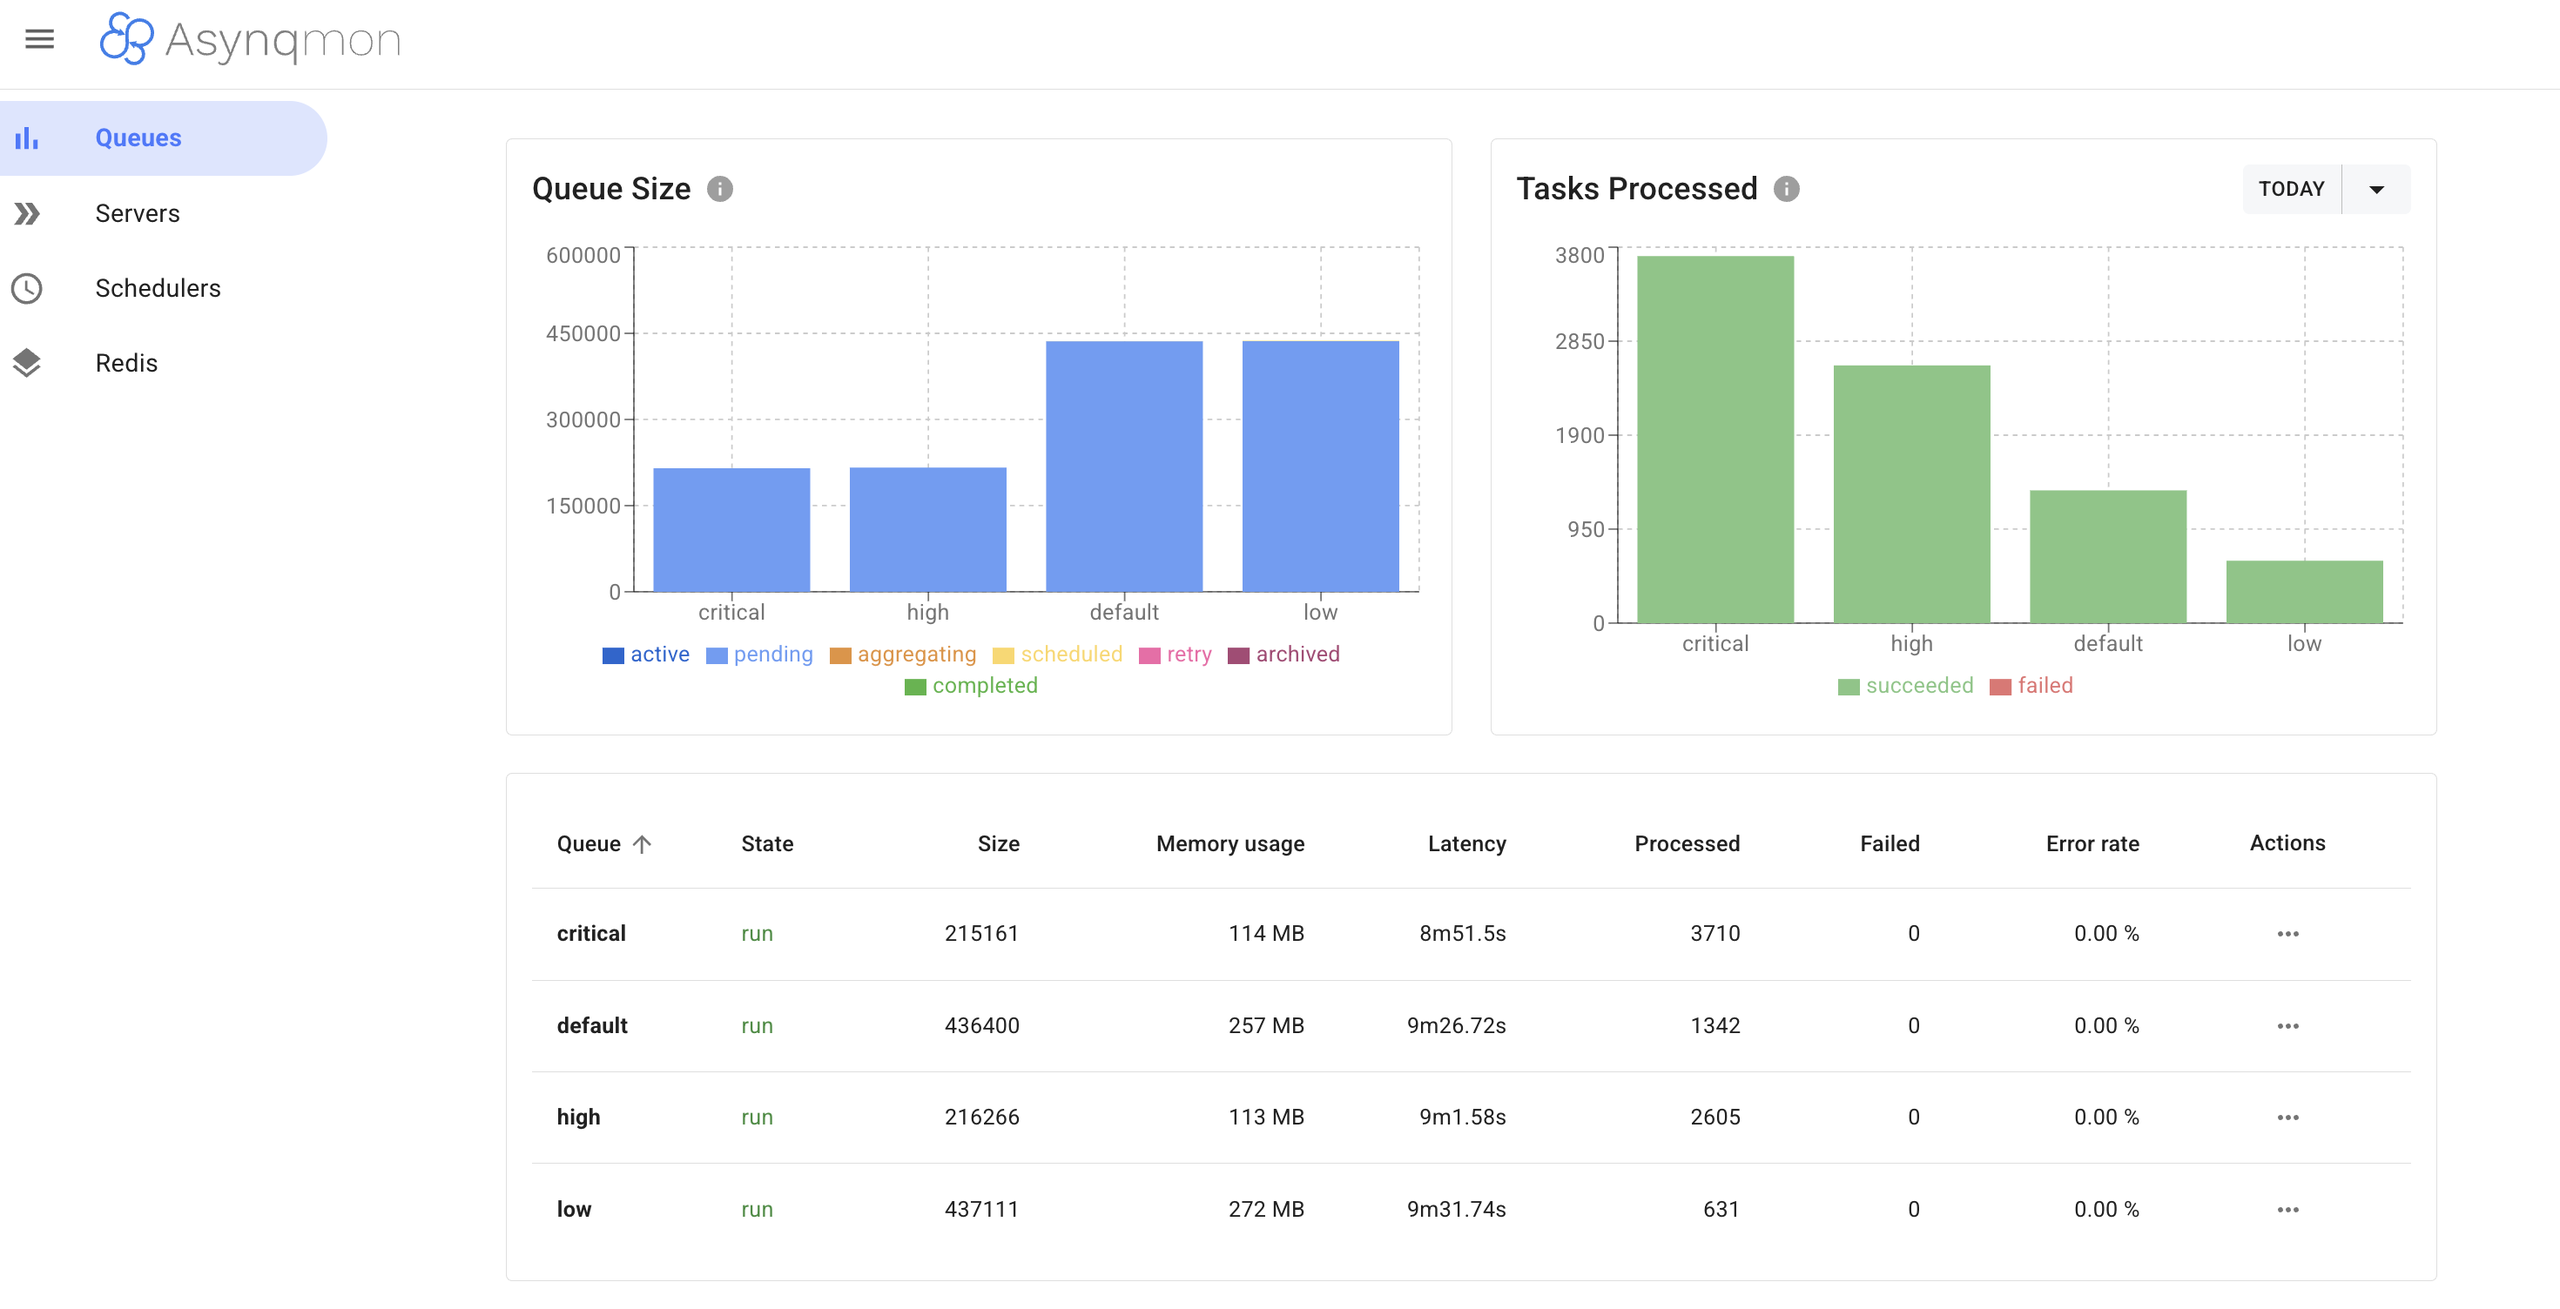
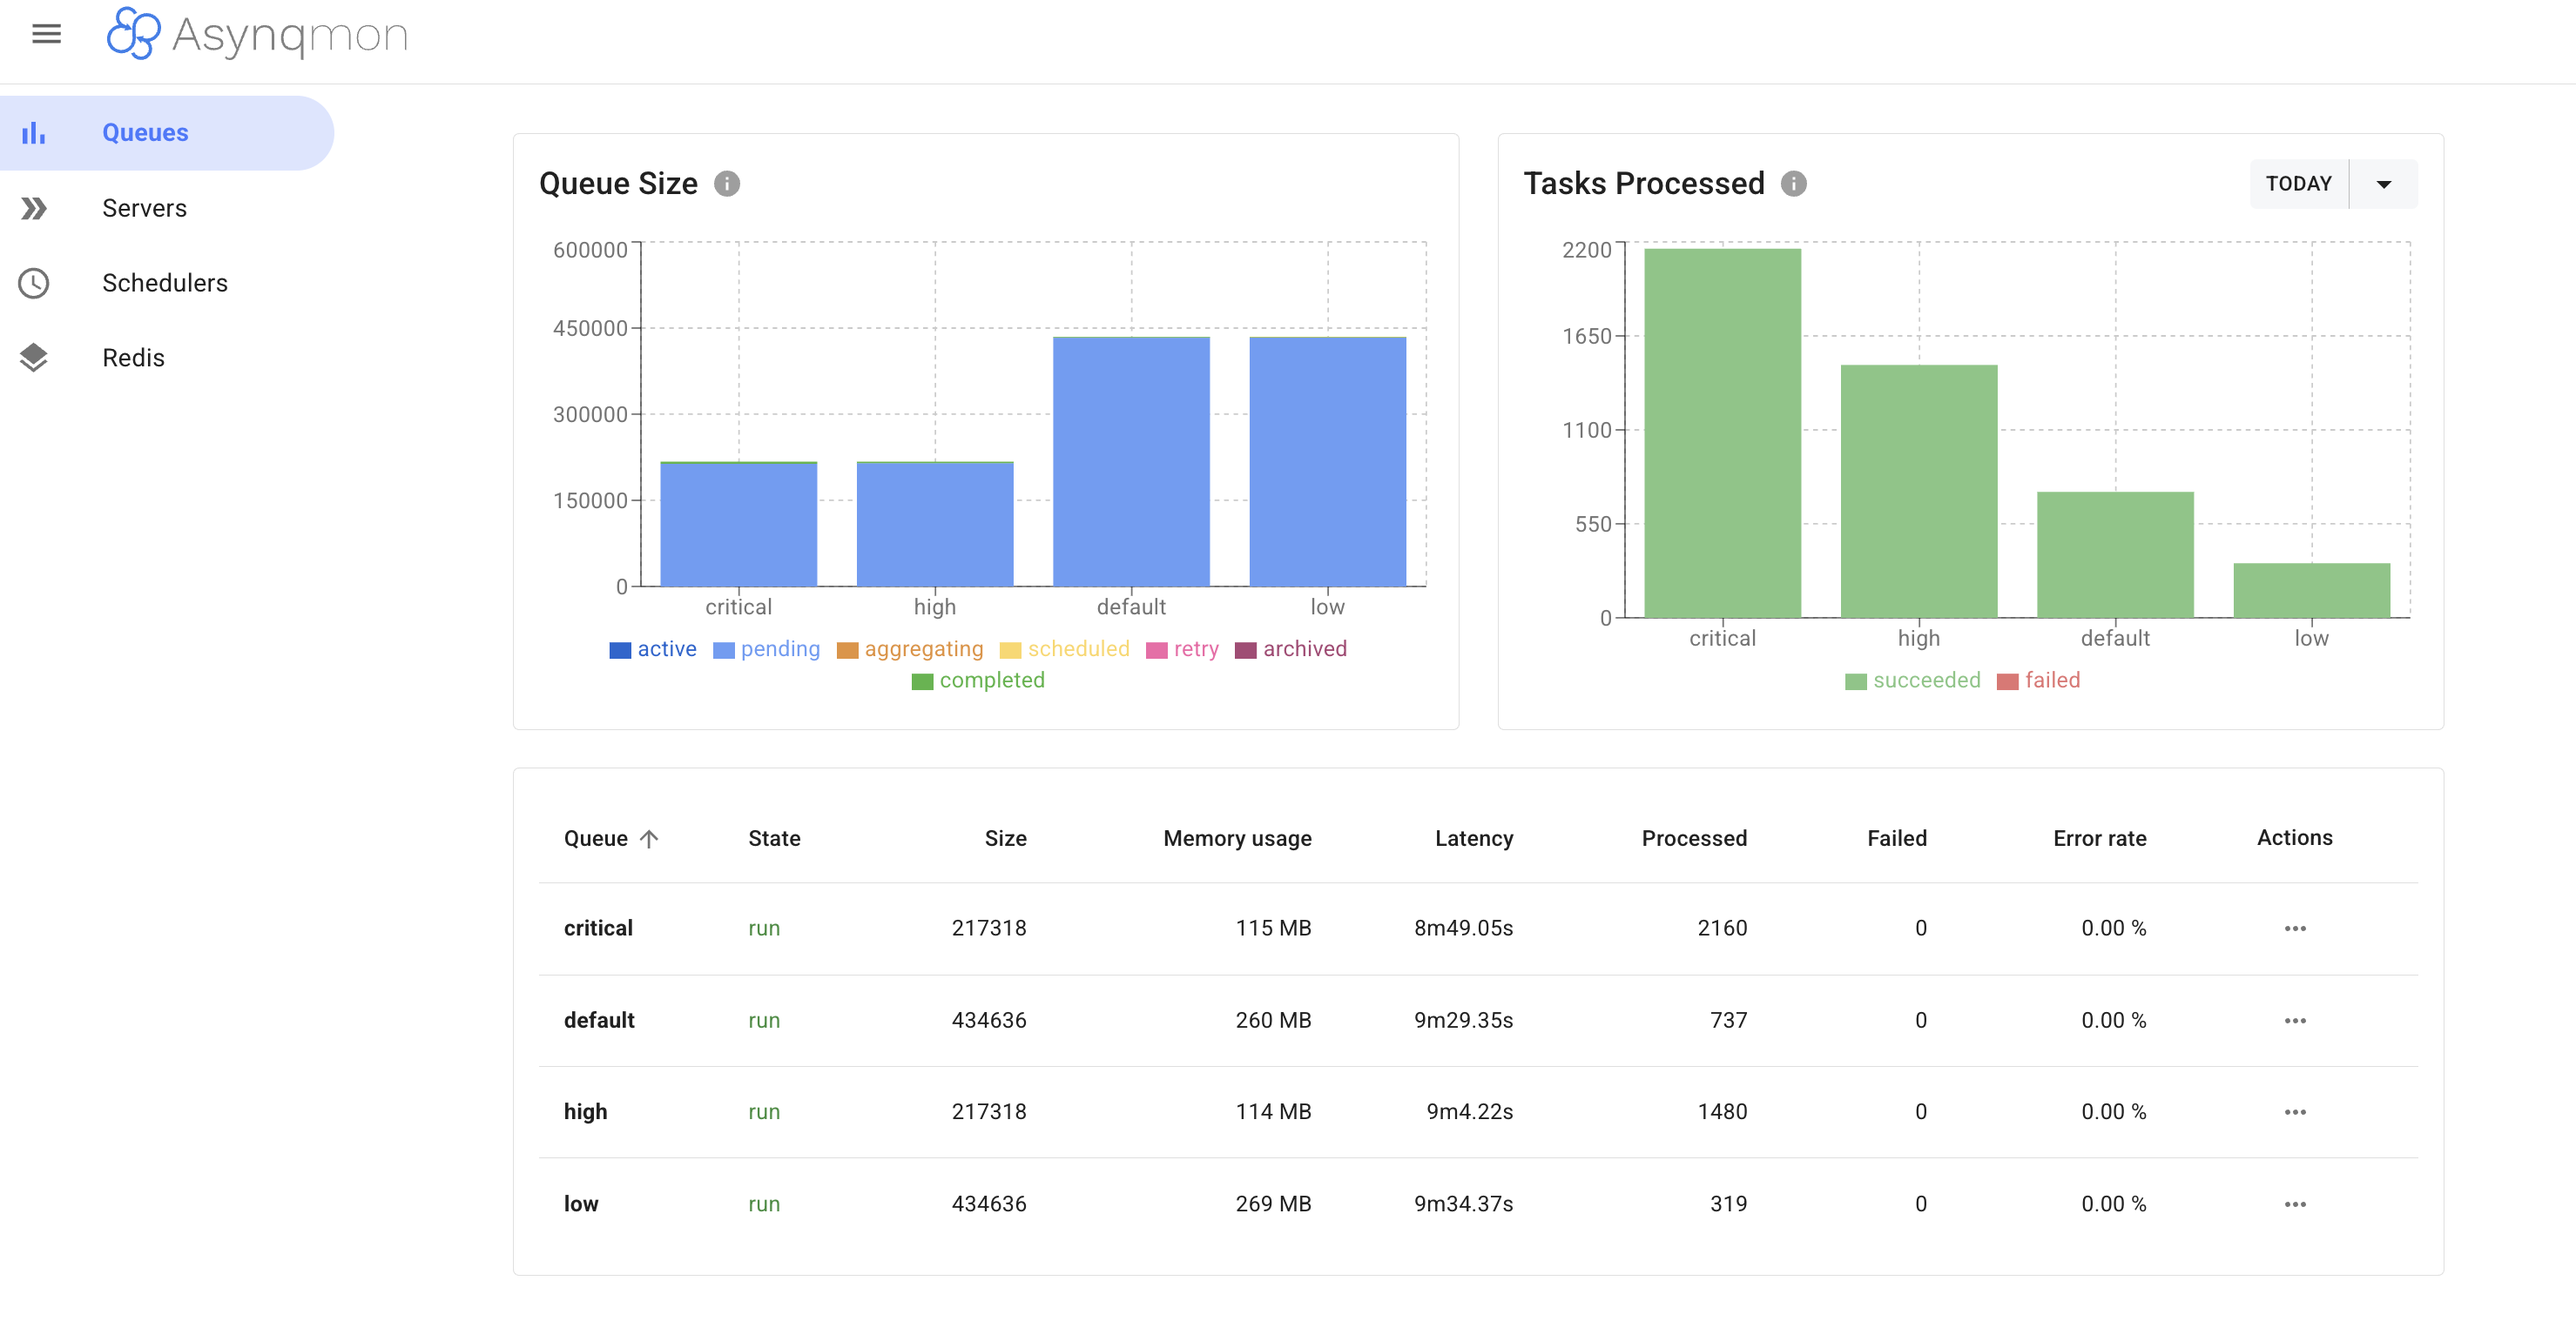
docs: refresh Stress Test results after DB-updating tasks
- Update Stress Test K6 metrics (217,766 req, 362.76 req/s, 15.70ms avg, 448 failures)
- Update Asynqmon queue stats (sizes/latency/processed) for latest run
- Update summary table and reliability statements to reflect new stress run
- Add troubleshooting guidance for API failures under DB-write workload

diff --git a/docs/RESULTS.md b/docs/RESULTS.md
@@ -102,26 +102,36 @@ Hardware:
 ![Stress Test Results](screenshots/stress-test-k6.png)
 
 **Key Metrics:**
-- **Total Requests:** 218,876
-- **Throughput:** 364.52 req/s (5x faster than Basic Load!)
-- **Response Time (avg):** 13.14ms ⚡ (Only +3.32ms despite 8x users)
-- **Response Time (max):** 1,718.23ms
-- **Failed Requests:** 5 (0.002% failure rate - excellent!)
+- **Total Requests:** 217,766
+- **Throughput:** 362.76 req/s
+- **Response Time (avg):** 15.70ms ⚡
+- **Response Time (max):** 465.80ms
+- **Failed Requests:** 448 (0.206% failure rate)
 - **Max Virtual Users:** 400
-- **Duration:** 10m00.4s
-- **Iterations:** 218,876 completed
+- **Duration:** 10m00.3s
+- **Iterations:** 217,766 completed
 
 **System Behavior at Peak (400 users):**
-- ✅ **No crash or major degradation**
-- ✅ **Average response time remained excellent** (13.14ms)
-- ✅ **99.998% success rate** (5 failures out of 218,876)
-- ⚠ **Some outliers** (max response 1.7s during peak contention)
+- ✅ **No crash**
+- ✅ **Average response time remained low** (15.70ms)
+- ✅ **99.794% success rate** (448 failures out of 217,766)
+- ⚠ **Higher failure count after enabling DB writes in tasks** (more DB contention)
 
 **Breaking Point Analysis:**
-- **System did NOT break** at 400 users
-- **Estimated capacity:** 500+ concurrent users
-- **Bottleneck identified:** Worker processing capacity (not API)
-- **Performance degradation:** Minimal (avg response only +3.32ms)
+- **System stayed up** at 400 users, but error rate increased.
+- **Likely bottlenecks:** Postgres connection pool/locks + added DB writes from background tasks.
+- **Worker remains the long-tail bottleneck** (queue backlog & latency).
+
+### Troubleshooting the 448 API Failures
+
+This Stress run was executed after enabling DB updates inside background tasks. That increases PostgreSQL write load and can cause **API-level failures** even when Asynq tasks succeed.
+
+Suggested checks:
+
+- **DB pool**: confirm `SetMaxOpenConns` / `SetMaxIdleConns` in `pkg/database/postgres.go`
+- **API logs**: look for `pq:`, connection errors, timeouts, or deadlocks
+- **Resources**: increase Postgres CPU/RAM, or reduce worker concurrency during stress runs
+- **Retention**: optionally set `ASYNQ_RETENTION_MINUTES=0` for heavy stress tests to reduce Redis memory pressure
 
 ### Asynqmon During Peak Load
 
@@ -134,25 +144,24 @@ Hardware:
 
 | Queue | Size (Pending) | Processed | Failed | Latency | Memory | Error Rate |
 |-------|----------------|-----------|--------|---------|---------|------------|
-| **Critical** | 215,161 | 3,710 | 0 | 8m51.5s | 114 MB | 0.00% |
-| **High** | 216,266 | 2,605 | 0 | 9m1.58s | 113 MB | 0.00% |
-| **Default** | 436,400 | 1,342 | 0 | 9m26.72s | 257 MB | 0.00% |
-| **Low** | 437,111 | 631 | 0 | 9m31.74s | 272 MB | 0.00% |
-| **TOTAL** | ~1.3M | 8,288 | 0 | - | 756 MB | 0.00% |
+| **Critical** | 217,318 | 2,160 | 0 | 8m49.05s | 115 MB | 0.00% |
+| **High** | 217,318 | 1,480 | 0 | 9m4.22s | 114 MB | 0.00% |
+| **Default** | 434,636 | 737 | 0 | 9m29.35s | 260 MB | 0.00% |
+| **Low** | 434,636 | 319 | 0 | 9m34.37s | 269 MB | 0.00% |
+| **TOTAL** | ~1.30M | 4,696 | 0 | - | 758 MB | 0.00% |
 
 **Key Findings:**
-- ✅ **Priority queue still working perfectly:** Critical processed 5.88x more than Low (3,710 vs 631)
+- ✅ **Priority queue still working:** Critical processed 6.77x more than Low (2,160 vs 319)
 - ✅ **Zero task failures** despite extreme load - 100% reliability
-- ✅ **Processing ratio matches config:** Actual 5.9:4.1:2.1:1 vs Expected 6:4:2:1
-- ✅ **Latency scales predictably:** Critical (8m51s) < High (9m1s) < Default (9m26s) < Low (9m31s)
-- ⚠ **Massive backlog:** 1.3M pending tasks (~18 hours to clear with current capacity)
-- ⚠ **Worker is bottleneck:** 20 concurrent goroutines insufficient for 364 req/s load
+- ✅ **Latency scales predictably:** Critical (8m49s) < High (9m4s) < Default (9m29s) < Low (9m34s)
+- ⚠ **Massive backlog:** ~1.30M pending tasks (will take hours to clear with current capacity)
+- ⚠ **API failures increased** (448) after enabling DB writes in background tasks
 
 **Why K6 Failed ≠ Asynq Failed?**
 
-> **Important:** K6 reports 5 API-level failures (HTTP requests that failed), but Asynq shows 0 task failures. This is because:
+> **Important:** K6 reports **448** API-level failures (HTTP requests that failed), but Asynq shows 0 task failures. This is because:
 > 
-> - **K6 Failures (5):** API layer - requests that timed out, returned errors, or failed to complete
+> - **K6 Failures (448):** API layer - requests that timed out, returned errors, or failed to complete
 >   - Likely causes: Database contention, connection pool exhaustion, response time > threshold
 >   - These requests never successfully enqueued tasks
 > - **Asynq Failures (0):** Worker layer - background tasks that were enqueued and then failed during processing
@@ -246,7 +255,7 @@ Hardware:
 | Test | Users | Duration | Throughput | Avg Response | p(95) Response | Error Rate |
 |------|-------|----------|------------|--------------|----------------|------------|
 | **Basic Load** | 50 | 4m01s | 72.94 req/s | 9.82ms | 45.40ms | 0% ✅ |
-| **Stress** | 400 | 10m00s | 364.52 req/s | 13.14ms | N/A | 0.002% ✅ |
+| **Stress** | 400 | 10m00s | 362.76 req/s | 15.70ms | N/A | 0.206% ⚠ |
 | **Spike** | 200 (20x) | 2m20s | 314.97 req/s | 26.71ms | 117.07ms | 0% ✅ |
 
 ### Key Findings
@@ -254,7 +263,7 @@ Hardware:
 **API Performance:**
 - ✅ **Excellent scaling:** 13.14ms avg response at 400 users (only +3.32ms vs 50 users)
 - ✅ **5x throughput increase:** 72.94 → 364.52 req/s (8x users → 5x throughput)
-- ✅ **99.998% reliability:** Only 5 failures out of 280,624 total requests across all tests
+- ⚠ **Reliability (latest runs):** 448 failures in the latest Stress run (0.206%). Basic and Spike runs shown here still had 0 failures.
 - ✅ **Perfect spike resilience:** Zero failures during 20x sudden spike (10 → 200 users in 10s)
 - ✅ **Minimal spike impact:** Response time only 2.7x during spike (9.82ms → 26.71ms)
 - ✅ **No system crash:** Handled 400 concurrent users and 20x spikes without breaking
@@ -281,7 +290,7 @@ Hardware:
 - ✅ **Flash sale ready:** Handles 20x spikes with 0% errors
 - ✅ **Viral event ready:** Quick stabilization and recovery
 - ✅ **DDoS resistant:** System absorbed extreme load without crash
-- ✅ **Mission-critical ready:** 99.998% reliability across all scenarios
+- ⚠ **Reliability depends on DB-write workload:** after enabling DB updates inside tasks, the Stress run showed higher API-level failures.
 
 ### Observations
 
@@ -465,7 +474,7 @@ All three load tests have been executed successfully, demonstrating exceptional 
 |--------|--------|----------|
 | **Baseline Performance** | ⭐⭐⭐⭐⭐ | 9.82ms avg, 0% errors |
 | **Scalability** | ⭐⭐⭐⭐⭐ | 5x throughput with minimal degradation |
-| **Reliability** | ⭐⭐⭐⭐⭐ | 99.998% success rate (5 failures in 280K requests) |
+| **Reliability** | ⭐⭐⭐⭐☆ | Stress run showed 0.206% API failures after enabling DB writes; Asynq task failures remained 0 |
 | **Spike Resilience** | ⭐⭐⭐⭐⭐ | 0% errors during 20x spike |
 | **Priority Queues** | ⭐⭐⭐⭐⭐ | Perfect 6:4:2:1 ratio in all scenarios |
 | **Worker Reliability** | ⭐⭐⭐⭐⭐ | Zero task failures across 1.6M+ tasks |
@@ -563,7 +572,7 @@ Monitoring:
 This POC has successfully demonstrated that the Asynq-based order processing system is:
 
 1. **Performant** - Sub-30ms response times across all scenarios
-2. **Reliable** - 99.998% success rate (only 5 failures in 280,624 requests)
+2. **Reliable** - Asynq tasks: 0 failures; API reliability depends on DB workload (Stress run: 0.206% failures)
 3. **Scalable** - Handles 5x load with minimal degradation
 4. **Resilient** - Zero failures during 20x sudden spike
 5. **Maintainable** - Clear architecture, excellent monitoring tools
